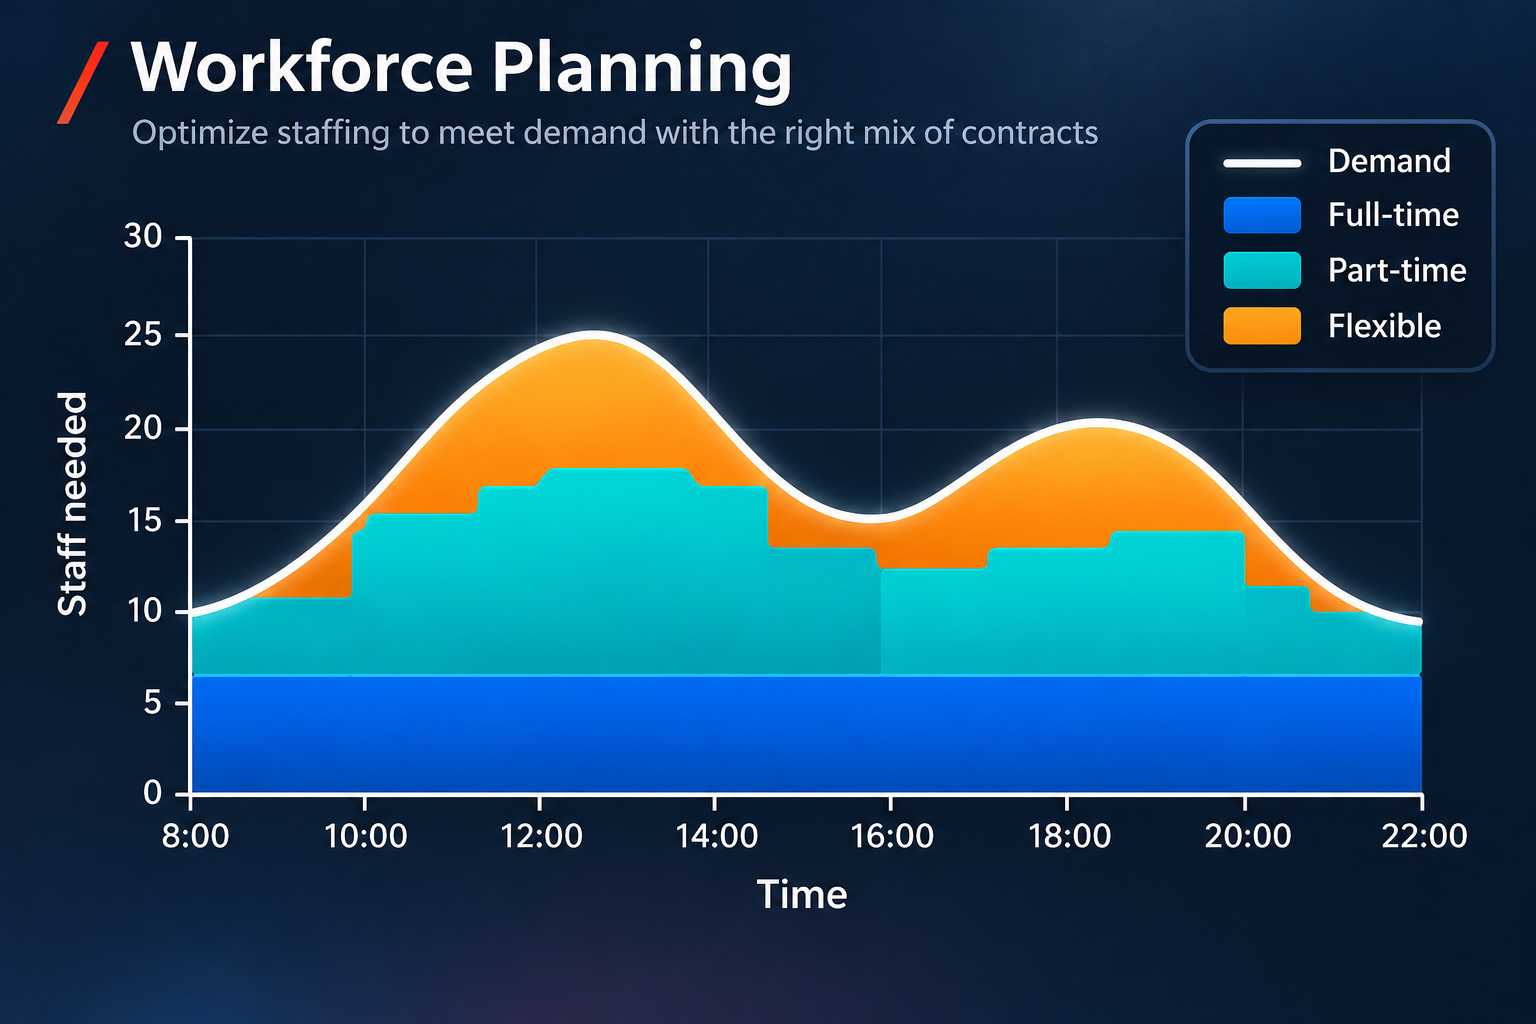
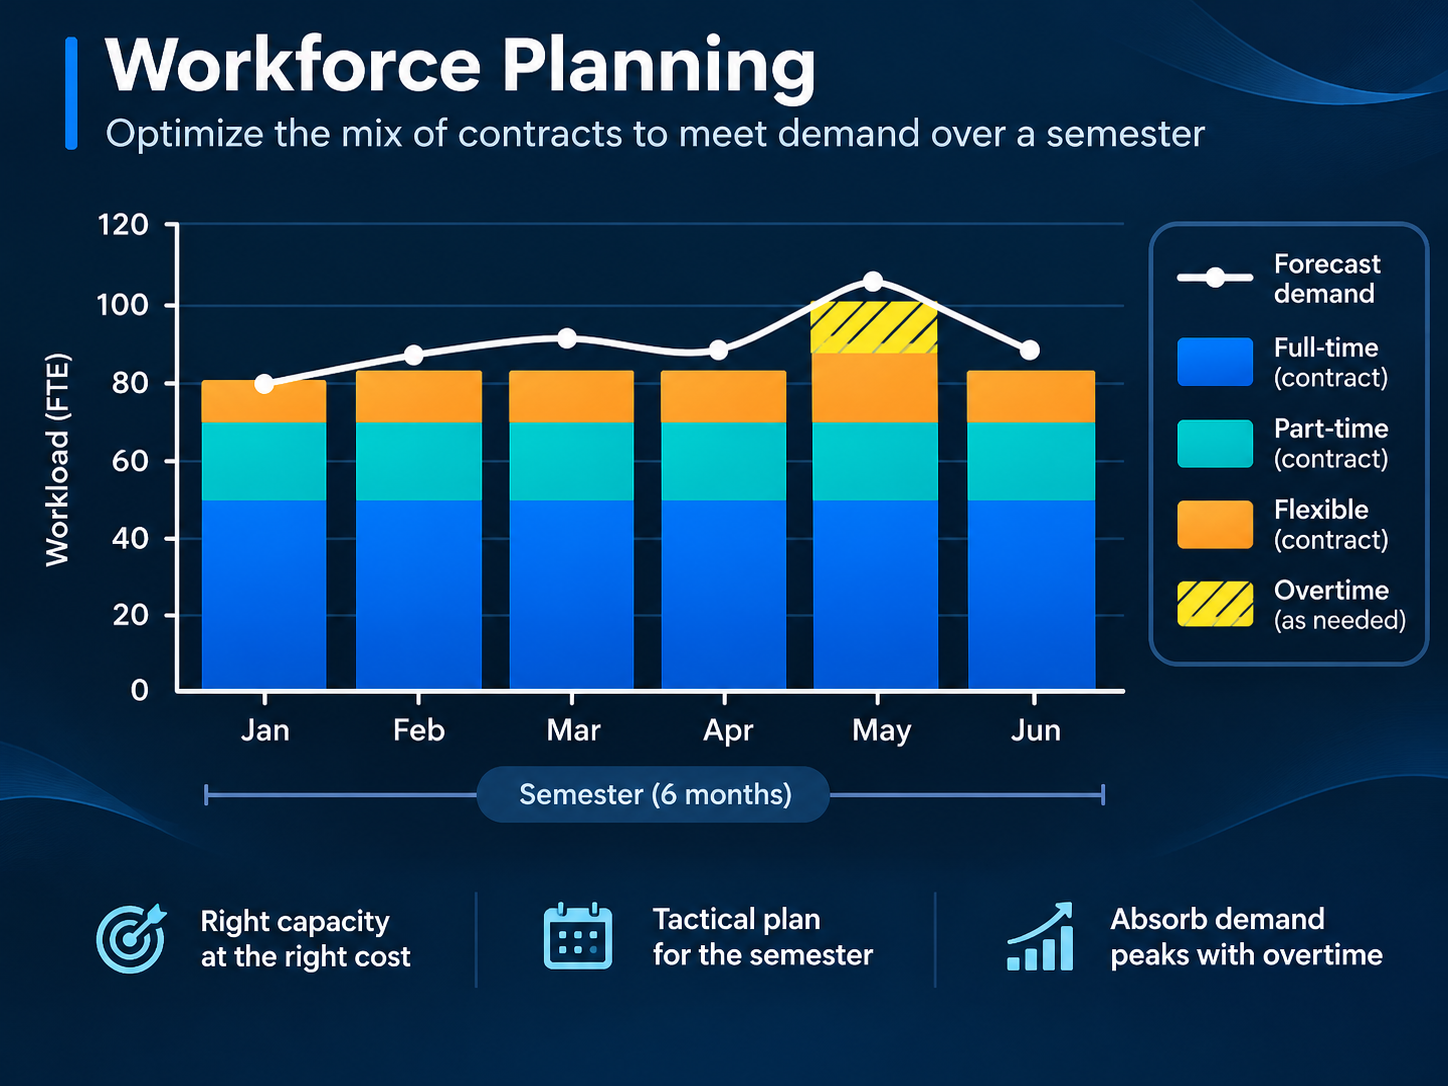
more pics

diff --git a/index.html b/index.html
@@ -818,14 +818,14 @@
         <li class="project-card">
           <div class="project-media"><img src="assets/img/projects/swap.png"
               alt="SWAP: an operations controller swaps a delayed aircraft for an on-time one during a storm" loading="lazy"></div>
-          <h3 class="project-title">SWAP</h3>
+          <h3 class="project-title">Swaps in commercial aviation</h3>
           <p class="project-caption">Swapping aircraft and routes for short-term operational efficiency.</p>
         </li>
         <li class="project-card">
           <div class="project-media"><img src="assets/img/projects/forecasting.png"
               alt="Sales forecasting: an hourly store sales forecast with a confidence band feeding staffing, inventory and operations"
               loading="lazy"></div>
-          <h3 class="project-title">Sales forecasting</h3>
+          <h3 class="project-title">Retail sales forecasting</h3>
           <p class="project-caption">Forecasting retail sales to give staffing and operational planning a reliable
             demand signal.</p>
         </li>
@@ -841,7 +841,7 @@
               alt="Workforce planning: demand across the day covered by a mix of full-time, part-time and flexible staff"
               loading="lazy"></div>
           <h3 class="project-title">Workforce planning</h3>
-          <p class="project-caption">Deciding staff size for each type for a given horizon.</p>
+          <p class="project-caption">Deciding staff size for each contract type for a given horizon.</p>
         </li>
         <li class="project-card">
           <div class="project-media"><img src="assets/img/projects/truck_dispatching_mining.png"
@@ -851,14 +851,16 @@
           <p class="project-caption">Efficient routing and dispatching of trucks in a copper mine</p>
         </li>
         <li class="project-card">
-          <div class="project-media"><img src="assets/img/projects/placeholder.svg"
-              alt="Capacity optimization in a port" loading="lazy"></div>
+          <div class="project-media"><img src="assets/img/projects/port.png"
+              alt="Port capacity optimization: berth utilization across a container terminal, with a throughput forecast and a recommended expansion"
+              loading="lazy"></div>
           <h3 class="project-title">Port capacity optimization</h3>
-          <p class="project-caption">Using simulation to increase the cargo capacity of a port.</p>
+          <p class="project-caption">Using simulation to optimize the capacity expansion of a port.</p>
         </li>
         <li class="project-card">
-          <div class="project-media"><img src="assets/img/projects/placeholder.svg"
-              alt="Joint optimization of supply and demand in a cinema" loading="lazy"></div>
+          <div class="project-media"><img src="assets/img/projects/cinema.png"
+              alt="Cinema optimization: movie schedules and cashier shifts planned together to smooth the concession-stand peak"
+              loading="lazy"></div>
           <h3 class="project-title">Joint optimization of supply and demand in a cinema</h3>
           <p class="project-caption">Optimizing a cinema's cashier's shifts and movie schedules together.</p>
         </li>
